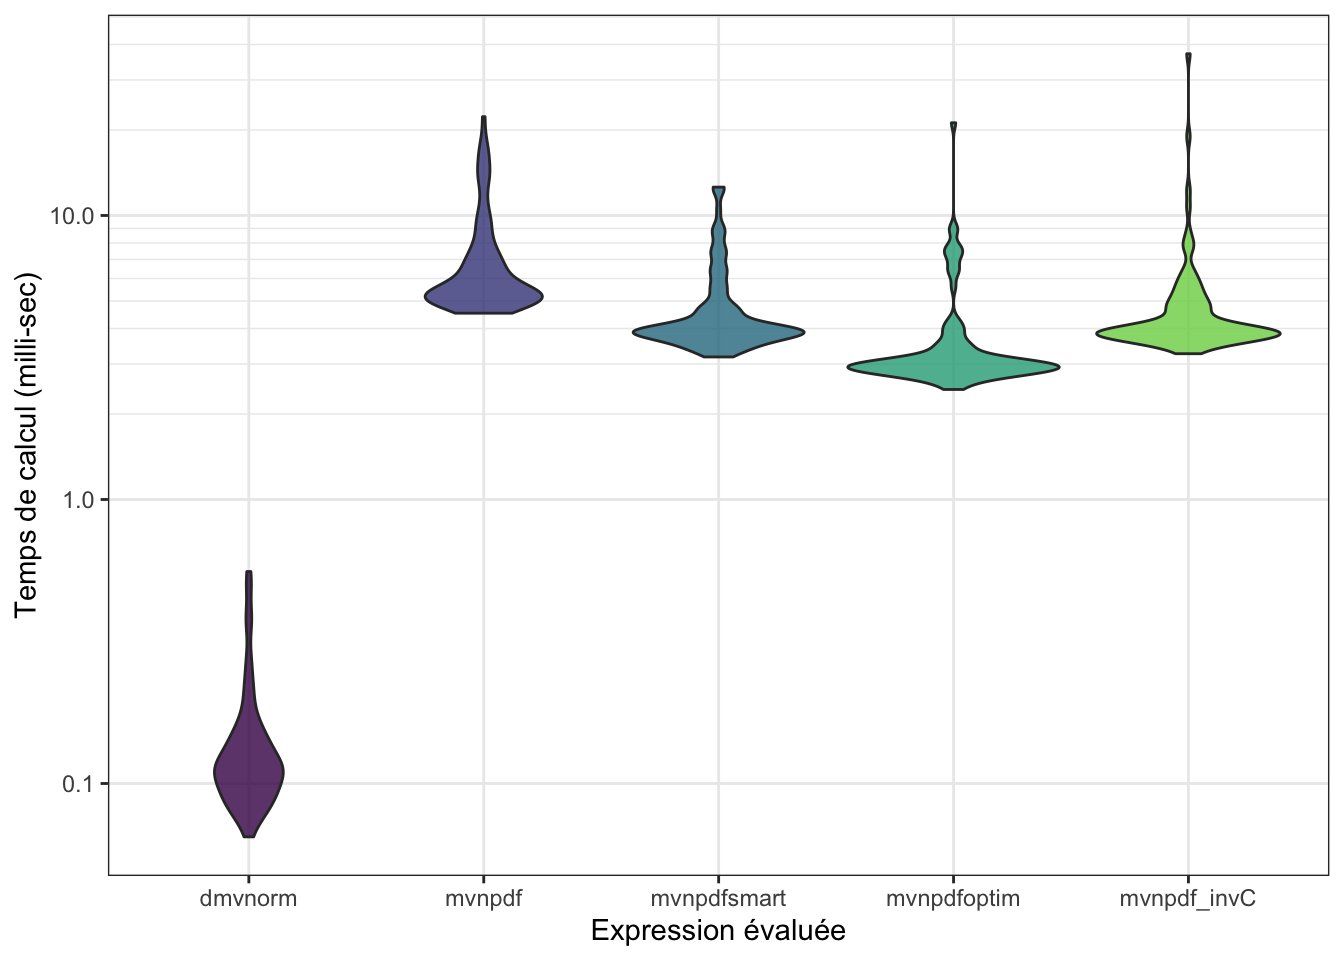
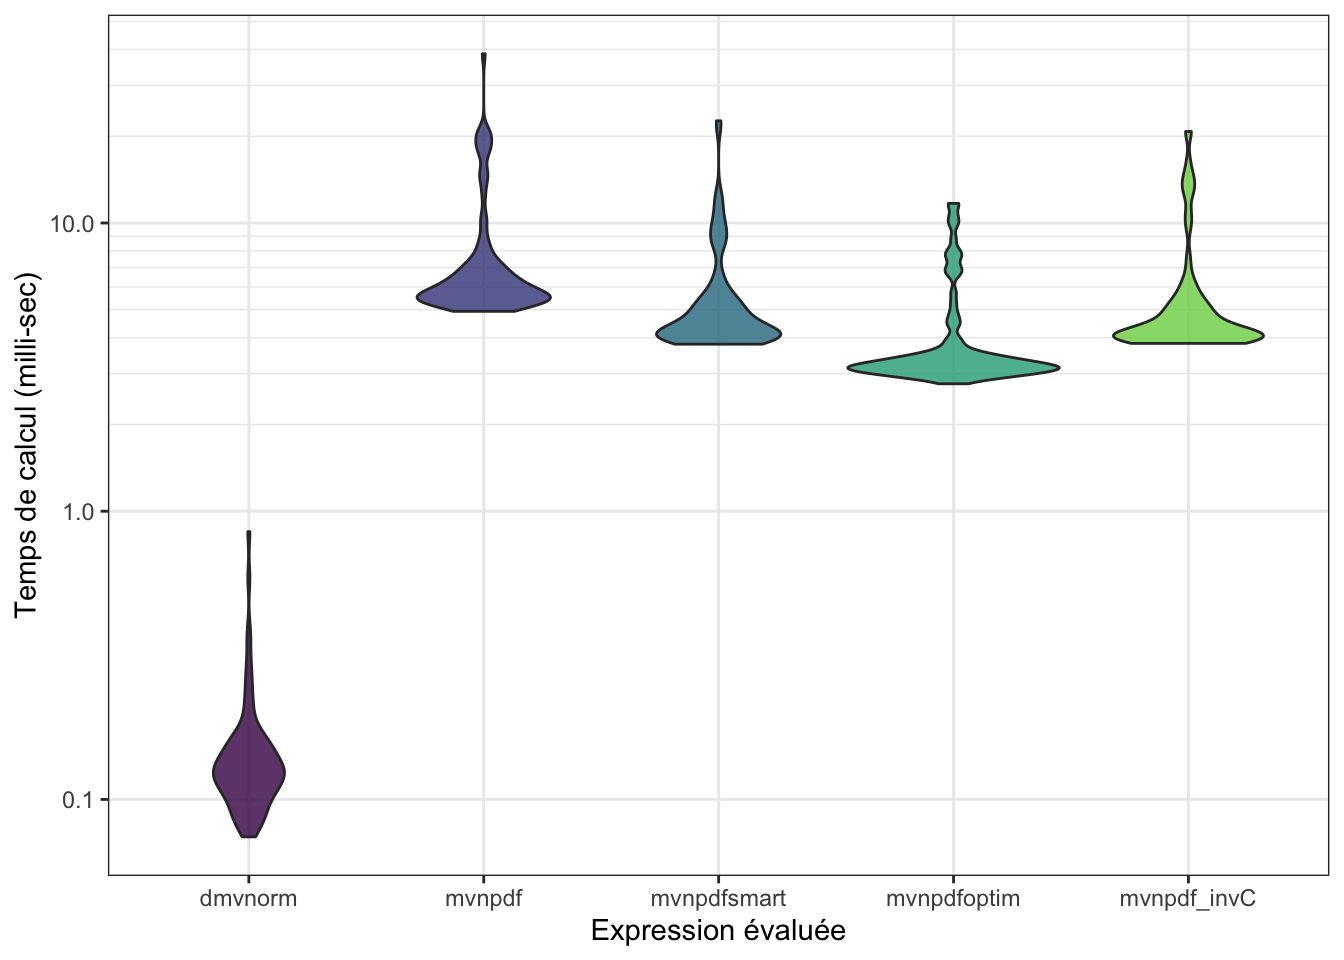
fixing links

diff --git a/_book/profiler-son-code.html b/_book/profiler-son-code.html
@@ -246,7 +246,7 @@ n’est vraiment pas une bonne idée.</p>
 <h2><span class="header-section-number">4.1</span> Comparaison avec une version plus habile de <code>mnvpdf()</code><a href="profiler-son-code.html#comparaison-avec-une-version-plus-habile-de-mnvpdf" class="anchor-section" aria-label="Anchor link to header"></a></h2>
 <p>Considérons une nouvelle version de <code>mvnpdf()</code>, appelée <code>mvnpdfsmart()</code>.
 Télécharger le
-<a href="ttps://r-dev-perf.borishejblum.science/FormationRavancee_dev_perf_files/mvnpdfsmart.R">fichier</a> puis
+<a href="https://r-dev-perf.borishejblum.science/FormationRavancee_dev_perf_files/mvnpdfsmart.R">fichier</a> puis
 l’inclure dans le package.</p>
 <p>Profiler la commande suivante :</p>
 <div class="sourceCode" id="cb20"><pre class="sourceCode r"><code class="sourceCode r"><span id="cb20-1"><a href="profiler-son-code.html#cb20-1" aria-hidden="true" tabindex="-1"></a>n <span class="ot">&lt;-</span> <span class="fl">10e4</span></span>
@@ -262,11 +262,11 @@ fine ce qui prend du temps dans notre fonction.</p>
 <span id="cb21-5"><a href="profiler-son-code.html#cb21-5" aria-hidden="true" tabindex="-1"></a>mb</span></code></pre></div>
 <pre><code>## Unit: milliseconds
 ##                                                            expr      min
-##       mvnpdf(x = matrix(1.96, nrow = 2, ncol = n), Log = FALSE) 4.154924
-##  mvnpdfsmart(x = matrix(1.96, nrow = 2, ncol = n), Log = FALSE) 3.064364
+##       mvnpdf(x = matrix(1.96, nrow = 2, ncol = n), Log = FALSE) 4.399487
+##  mvnpdfsmart(x = matrix(1.96, nrow = 2, ncol = n), Log = FALSE) 3.245338
 ##        lq     mean   median       uq      max neval cld
-##  5.067380 7.413835 5.564233 8.003994 41.09093   100   b
-##  3.616648 4.127804 3.742081 3.876312 12.02316   100  a</code></pre>
+##  5.050434 7.934795 5.377343 7.157343 72.72614   100   b
+##  3.703267 4.317832 3.836042 3.964478 11.84162   100  a</code></pre>
 <pre><code>## Warning: It is deprecated to specify `guide = FALSE` to remove a guide. Please
 ## use `guide = &quot;none&quot;` instead.</code></pre>
 <p><img src="FormationRavancee_dev_perf_files/figure-html/unnamed-chunk-20-1.png" width="672" /></p>
@@ -279,13 +279,13 @@ fine ce qui prend du temps dans notre fonction.</p>
 <span id="cb24-6"><a href="profiler-son-code.html#cb24-6" aria-hidden="true" tabindex="-1"></a>mb</span></code></pre></div>
 <pre><code>## Unit: microseconds
 ##                                                            expr      min
-##              mvtnorm::dmvnorm(matrix(1.96, nrow = n, ncol = 2))   62.492
-##       mvnpdf(x = matrix(1.96, nrow = 2, ncol = n), Log = FALSE) 4193.800
-##  mvnpdfsmart(x = matrix(1.96, nrow = 2, ncol = n), Log = FALSE) 3056.859
+##              mvtnorm::dmvnorm(matrix(1.96, nrow = n, ncol = 2))   65.825
+##       mvnpdf(x = matrix(1.96, nrow = 2, ncol = n), Log = FALSE) 4356.576
+##  mvnpdfsmart(x = matrix(1.96, nrow = 2, ncol = n), Log = FALSE) 3361.015
 ##         lq      mean   median        uq       max neval cld
-##    82.6985  139.0671  108.704  141.6415   660.558   100 a  
-##  5040.0335 7121.2856 5302.860 6641.1850 22854.639   100   c
-##  3671.5855 4498.5259 3845.221 4588.8060 12226.529   100  b</code></pre>
+##    90.5305  152.7151  123.062  150.1035   816.245   100 a  
+##  5147.1210 7558.1639 5361.229 8015.6220 27383.348   100   c
+##  3868.4955 5016.9187 3948.516 4662.1605 15871.331   100  b</code></pre>
 <pre><code>## Warning: It is deprecated to specify `guide = FALSE` to remove a guide. Please
 ## use `guide = &quot;none&quot;` instead.</code></pre>
 <p><img src="FormationRavancee_dev_perf_files/figure-html/unnamed-chunk-22-1.png" width="672" /></p>
@@ -294,7 +294,7 @@ fine ce qui prend du temps dans notre fonction.</p>
 <div id="comparaison-avec-une-version-optimisée-dans-r" class="section level2 hasAnchor" number="4.2">
 <h2><span class="header-section-number">4.2</span> Comparaison avec une version optimisée dans R<a href="profiler-son-code.html#comparaison-avec-une-version-optimisée-dans-r" class="anchor-section" aria-label="Anchor link to header"></a></h2>
 <p>Boris est arrivée après plusieurs recherches et tests à une
-<a href="ttps://r-dev-perf.borishejblum.science/FormationRavancee_dev_perf_files/mvnpdfoptim.R">version optimisée</a>
+<a href="https://r-dev-perf.borishejblum.science/FormationRavancee_dev_perf_files/mvnpdfoptim.R">version optimisée</a>
 avec les outils de R.</p>
 <p>Inclure la fonction <code>mvnpdfoptim()</code> dans le package, puis profiler cette
 fonction :</p>
@@ -310,15 +310,15 @@ fonction :</p>
 <span id="cb28-7"><a href="profiler-son-code.html#cb28-7" aria-hidden="true" tabindex="-1"></a>mb</span></code></pre></div>
 <pre><code>## Unit: microseconds
 ##                                                            expr      min
-##              mvtnorm::dmvnorm(matrix(1.96, nrow = n, ncol = 2))   73.605
-##       mvnpdf(x = matrix(1.96, nrow = 2, ncol = n), Log = FALSE) 5025.396
-##  mvnpdfsmart(x = matrix(1.96, nrow = 2, ncol = n), Log = FALSE) 3693.085
-##  mvnpdfoptim(x = matrix(1.96, nrow = 2, ncol = n), Log = FALSE) 2768.166
-##         lq      mean   median       uq       max neval  cld
-##   108.7775  139.8491  130.879  149.477   462.980   100 a   
-##  5366.2335 7059.8492 5507.146 6575.949 27473.575   100    d
-##  3914.9535 5130.9032 4013.736 5158.730 20536.882   100   c 
-##  2877.7875 3381.7996 3032.034 3316.273  8691.122   100  b</code></pre>
+##              mvtnorm::dmvnorm(matrix(1.96, nrow = n, ncol = 2))   72.809
+##       mvnpdf(x = matrix(1.96, nrow = 2, ncol = n), Log = FALSE) 4429.243
+##  mvnpdfsmart(x = matrix(1.96, nrow = 2, ncol = n), Log = FALSE) 3465.461
+##  mvnpdfoptim(x = matrix(1.96, nrow = 2, ncol = n), Log = FALSE) 2761.024
+##         lq      mean    median       uq       max neval  cld
+##    91.3825  125.5147  113.7305  137.587   595.169   100 a   
+##  5238.8885 6916.7459 5419.8630 6807.667 23945.545   100    d
+##  3887.9935 5064.2922 4070.2800 4706.861 15311.619   100   c 
+##  2926.6805 3432.5904 3032.9925 3214.467  9513.100   100  b</code></pre>
 <pre><code>## Warning: It is deprecated to specify `guide = FALSE` to remove a guide. Please
 ## use `guide = &quot;none&quot;` instead.</code></pre>
 <p><img src="FormationRavancee_dev_perf_files/figure-html/unnamed-chunk-25-1.png" width="672" /></p>

diff --git a/_book/mesurer-et-comparer-des-temps-dexécution.html b/_book/mesurer-et-comparer-des-temps-dexécution.html
@@ -240,7 +240,7 @@ afin de pouvoir comparer les temps d’exécution entre différente implémentat
 fonction <code>system.time()</code> comme ceci :</p>
 <div class="sourceCode" id="cb9"><pre class="sourceCode r"><code class="sourceCode r"><span id="cb9-1"><a href="mesurer-et-comparer-des-temps-dexécution.html#cb9-1" aria-hidden="true" tabindex="-1"></a><span class="fu">system.time</span>(<span class="fu">mvnpdf</span>(<span class="at">x=</span><span class="fu">matrix</span>(<span class="fu">rep</span>(<span class="fl">1.96</span>, <span class="dv">2</span>), <span class="at">nrow=</span><span class="dv">2</span>, <span class="at">ncol=</span><span class="dv">1</span>), <span class="at">Log=</span><span class="cn">FALSE</span>))</span></code></pre></div>
 <pre><code>## utilisateur     système      écoulé 
-##       0.003       0.001       0.008</code></pre>
+##       0.002       0.001       0.004</code></pre>
 <p>Le problème qui apparaît sur cet exemple est que l’exécution est tellement
 rapide que <code>system.time()</code> affiche <code>0</code> (ou une valeur très proche).
 De plus, on voit qu’il y a une certaine variabilité quand on relance plusieurs
@@ -249,7 +249,7 @@ fois la commande.</p>
 on ne peut pas utiliser <code>system.time()</code> :</p>
 <div class="sourceCode" id="cb11"><pre class="sourceCode r"><code class="sourceCode r"><span id="cb11-1"><a href="mesurer-et-comparer-des-temps-dexécution.html#cb11-1" aria-hidden="true" tabindex="-1"></a><span class="fu">system.time</span>(mvtnorm<span class="sc">::</span><span class="fu">dmvnorm</span>(<span class="fu">rep</span>(<span class="fl">1.96</span>, <span class="dv">2</span>)))</span></code></pre></div>
 <pre><code>## utilisateur     système      écoulé 
-##       0.005       0.003       0.010</code></pre>
+##       0.013       0.009       0.029</code></pre>
 <p>On pourrait se dire qu’il faut augmenter la complexité de notre calcul, mais
 il y a mieux : utiliser le package <code>microbenchmark</code> !</p>
 </div>
@@ -266,11 +266,11 @@ commandes et donc va stabiliser le résultat.</p>
 <span id="cb13-5"><a href="mesurer-et-comparer-des-temps-dexécution.html#cb13-5" aria-hidden="true" tabindex="-1"></a>mb</span></code></pre></div>
 <pre><code>## Unit: microseconds
 ##                                           expr    min      lq     mean  median
-##                 mvtnorm::dmvnorm(rep(1.96, 2)) 47.366 65.7290 119.0396 91.3135
-##  mvnpdf(x = matrix(rep(1.96, 2)), Log = FALSE) 44.014 63.0585 114.9594 85.1060
+##                 mvtnorm::dmvnorm(rep(1.96, 2)) 54.789 80.2935 150.3612 104.822
+##  mvnpdf(x = matrix(rep(1.96, 2)), Log = FALSE) 52.438 72.9730 139.8045  94.449
 ##        uq      max neval cld
-##  138.4440 1552.536  1000   a
-##  134.4595 2949.098  1000   a</code></pre>
+##  164.2215 1178.559  1000   a
+##  146.7355 6215.688  1000   a</code></pre>
 <pre><code>## Warning: It is deprecated to specify `guide = FALSE` to remove a guide. Please
 ## use `guide = &quot;none&quot;` instead.</code></pre>
 <p><img src="FormationRavancee_dev_perf_files/figure-html/unnamed-chunk-13-1.png" width="672" /></p>
@@ -284,11 +284,11 @@ cas :</p>
 <span id="cb16-5"><a href="mesurer-et-comparer-des-temps-dexécution.html#cb16-5" aria-hidden="true" tabindex="-1"></a>mb</span></code></pre></div>
 <pre><code>## Unit: microseconds
 ##                                                       expr     min       lq
-##         mvtnorm::dmvnorm(matrix(1.96, nrow = n, ncol = 2))  44.436  52.5295
-##  mvnpdf(x = matrix(1.96, nrow = 2, ncol = n), Log = FALSE) 459.803 493.2745
-##       mean  median       uq     max neval cld
-##   56.63684  55.668  58.8760 127.253   100  a 
-##  519.80729 519.813 544.9245 602.691   100   b</code></pre>
+##         mvtnorm::dmvnorm(matrix(1.96, nrow = n, ncol = 2))  46.497  53.0320
+##  mvnpdf(x = matrix(1.96, nrow = 2, ncol = n), Log = FALSE) 471.192 480.3515
+##       mean   median       uq     max neval cld
+##   58.84541  56.6915  62.7585 120.784   100  a 
+##  521.10634 517.4710 561.4085 618.478   100   b</code></pre>
 <pre><code>## Warning: It is deprecated to specify `guide = FALSE` to remove a guide. Please
 ## use `guide = &quot;none&quot;` instead.</code></pre>
 <p><img src="FormationRavancee_dev_perf_files/figure-html/unnamed-chunk-15-1.png" width="672" /></p>

diff --git a/_book/rcpp-ou-comment-intégrer-facilement-du-code-cdans-un-package-r.html b/_book/rcpp-ou-comment-intégrer-facilement-du-code-cdans-un-package-r.html
@@ -296,17 +296,17 @@ l’utiliser.</p></li>
 <span id="cb34-8"><a href="rcpp-ou-comment-intégrer-facilement-du-code-cdans-un-package-r.html#cb34-8" aria-hidden="true" tabindex="-1"></a>mb</span></code></pre></div>
 <pre><code>## Unit: microseconds
 ##                                                            expr      min
-##              mvtnorm::dmvnorm(matrix(1.96, nrow = n, ncol = 2))   64.874
-##       mvnpdf(x = matrix(1.96, nrow = 2, ncol = n), Log = FALSE) 4528.560
-##  mvnpdfsmart(x = matrix(1.96, nrow = 2, ncol = n), Log = FALSE) 3175.742
-##  mvnpdfoptim(x = matrix(1.96, nrow = 2, ncol = n), Log = FALSE) 2439.918
-##  mvnpdf_invC(x = matrix(1.96, nrow = 2, ncol = n), Log = FALSE) 3260.595
-##        lq      mean    median       uq       max neval  cld
-##    94.029  140.8697  114.7315  144.119   557.609   100 a   
-##  5121.702 7031.5961 5340.9310 7375.550 22274.469   100    d
-##  3780.073 4758.3613 3955.8585 4692.474 12583.398   100   c 
-##  2831.097 3687.5158 2981.1015 3405.715 21205.550   100  b  
-##  3785.234 4970.9219 3943.6415 4777.316 37099.032   100   c</code></pre>
+##              mvtnorm::dmvnorm(matrix(1.96, nrow = n, ncol = 2))   74.150
+##       mvnpdf(x = matrix(1.96, nrow = 2, ncol = n), Log = FALSE) 4937.325
+##  mvnpdfsmart(x = matrix(1.96, nrow = 2, ncol = n), Log = FALSE) 3797.359
+##  mvnpdfoptim(x = matrix(1.96, nrow = 2, ncol = n), Log = FALSE) 2767.860
+##  mvnpdf_invC(x = matrix(1.96, nrow = 2, ncol = n), Log = FALSE) 3822.393
+##         lq      mean   median       uq       max neval  cld
+##   105.6465  148.3002  124.749  152.035   849.552   100 a   
+##  5460.6455 7791.0996 5909.471 7063.025 38647.222   100    d
+##  4036.4730 5580.8977 4385.708 5435.118 22622.500   100   c 
+##  3098.3945 4077.0568 3217.636 3615.547 11696.070   100  b  
+##  4009.2495 5643.4492 4236.820 5201.603 20768.013   100   c</code></pre>
 <pre><code>## Warning: It is deprecated to specify `guide = FALSE` to remove a guide. Please
 ## use `guide = &quot;none&quot;` instead.</code></pre>
 <p><img src="FormationRavancee_dev_perf_files/figure-html/unnamed-chunk-31-1.png" width="672" /></p>
@@ -347,13 +347,13 @@ de densité de la loi Normale multivariée <code>mvnpdfC()</code>.</p></li>
 ##                                        mvnpdfoptim(x = matrix(1.96, nrow = 2, ncol = n), Log = FALSE)
 ##                                        mvnpdf_invC(x = matrix(1.96, nrow = 2, ncol = n), Log = FALSE)
 ##  mvnpdfC(x = matrix(1.96, nrow = 2, ncol = n), mean = rep(0, 2),      varcovM = diag(2), Log = FALSE)
-##       min       lq       mean   median        uq       max neval  cld
-##    58.549   85.349  128.59529  100.897  129.8145   590.925   100 a   
-##  4051.275 4498.137 5964.31806 4934.383 6246.5750 17720.026   100    d
-##  3048.669 3243.258 4225.57688 3440.676 4054.7460 12079.354   100   c 
-##  2237.209 2447.799 3149.71449 2650.508 3135.5440  9384.495   100  b  
-##  2976.646 3271.857 4380.19486 3460.036 4513.5880 29494.384   100   c 
-##    44.006   55.764   95.05549   61.694   85.9305   955.252   100 a</code></pre>
+##       min       lq      mean    median        uq       max neval  cld
+##    78.502  110.147  162.8588  129.2745  166.9720  1326.424   100 a   
+##  4349.642 5237.285 6894.7286 5684.0770 7080.4950 17495.354   100    d
+##  3267.945 3889.440 4916.6477 3986.7085 4849.4950 12955.427   100   c 
+##  2752.625 2949.572 3920.6540 3131.7180 3778.0510 15523.654   100  b  
+##  3245.512 3858.322 5069.4223 4134.8735 5137.1250 18916.846   100   c 
+##    54.569   63.805  116.2211   75.5465   89.4385  3560.526   100 a</code></pre>
 <pre><code>## Warning: It is deprecated to specify `guide = FALSE` to remove a guide. Please
 ## use `guide = &quot;none&quot;` instead.</code></pre>
 <p><img src="FormationRavancee_dev_perf_files/figure-html/unnamed-chunk-34-1.png" width="672" /></p>

diff --git a/_book/parallélisation-du-code-r.html b/_book/parallélisation-du-code-r.html
@@ -347,7 +347,7 @@ médiane pour chacune de ces variables.</p>
 <span id="cb44-3"><a href="parallélisation-du-code-r.html#cb44-3" aria-hidden="true" tabindex="-1"></a>}</span>
 <span id="cb44-4"><a href="parallélisation-du-code-r.html#cb44-4" aria-hidden="true" tabindex="-1"></a><span class="fu">system.time</span>(<span class="fu">colmedian_apply</span>(x))</span></code></pre></div>
 <pre><code>## utilisateur     système      écoulé 
-##       3.272       0.013       3.292</code></pre>
+##       3.116       0.016       3.147</code></pre>
 <p>En réalité, une boucle <code>for</code> n’est pas plus lente à condition d’être bien
 programmée :</p>
 <div class="sourceCode" id="cb46"><pre class="sourceCode r"><code class="sourceCode r"><span id="cb46-1"><a href="parallélisation-du-code-r.html#cb46-1" aria-hidden="true" tabindex="-1"></a>colmedian_for <span class="ot">&lt;-</span> <span class="cf">function</span>(x){</span>
@@ -359,7 +359,7 @@ programmée :</p>
 <span id="cb46-7"><a href="parallélisation-du-code-r.html#cb46-7" aria-hidden="true" tabindex="-1"></a>}</span>
 <span id="cb46-8"><a href="parallélisation-du-code-r.html#cb46-8" aria-hidden="true" tabindex="-1"></a><span class="fu">system.time</span>(<span class="fu">colmedian_for</span>(x))</span></code></pre></div>
 <pre><code>## utilisateur     système      écoulé 
-##       2.734       0.003       2.740</code></pre>
+##       4.198       0.033       4.273</code></pre>
 <blockquote>
 <p><strong><em>À vous de jouer !</em></strong><br />
 Essayez d’améliorer encore ce temps de calcul en parallélisant :</p>
